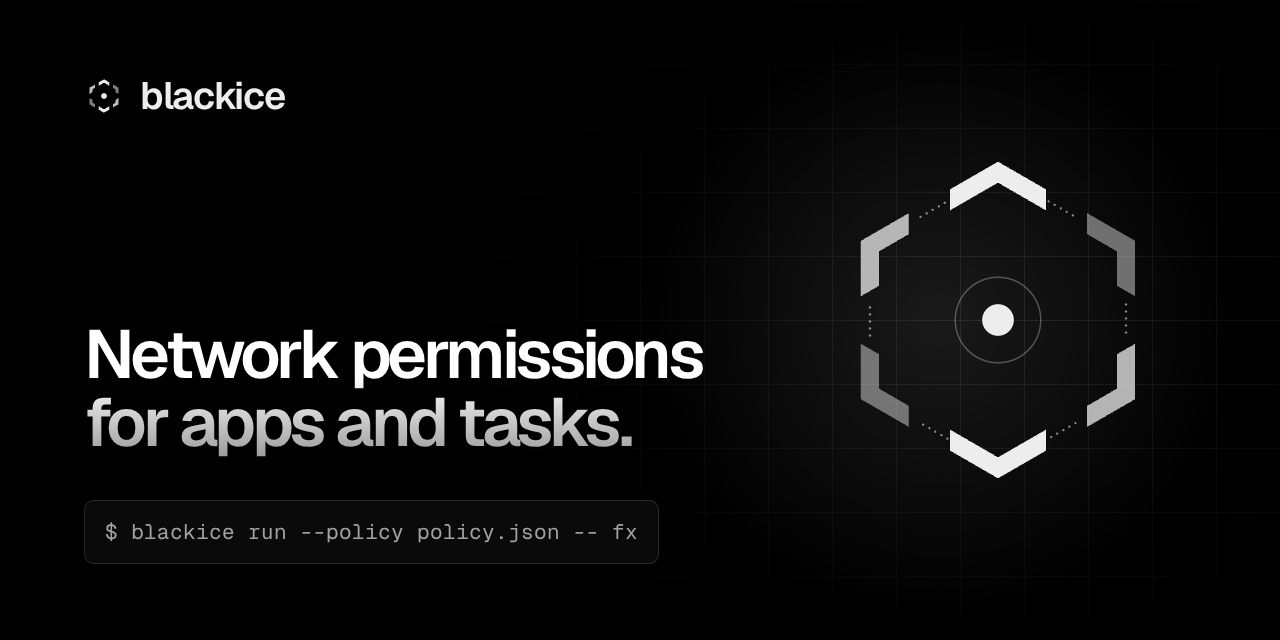
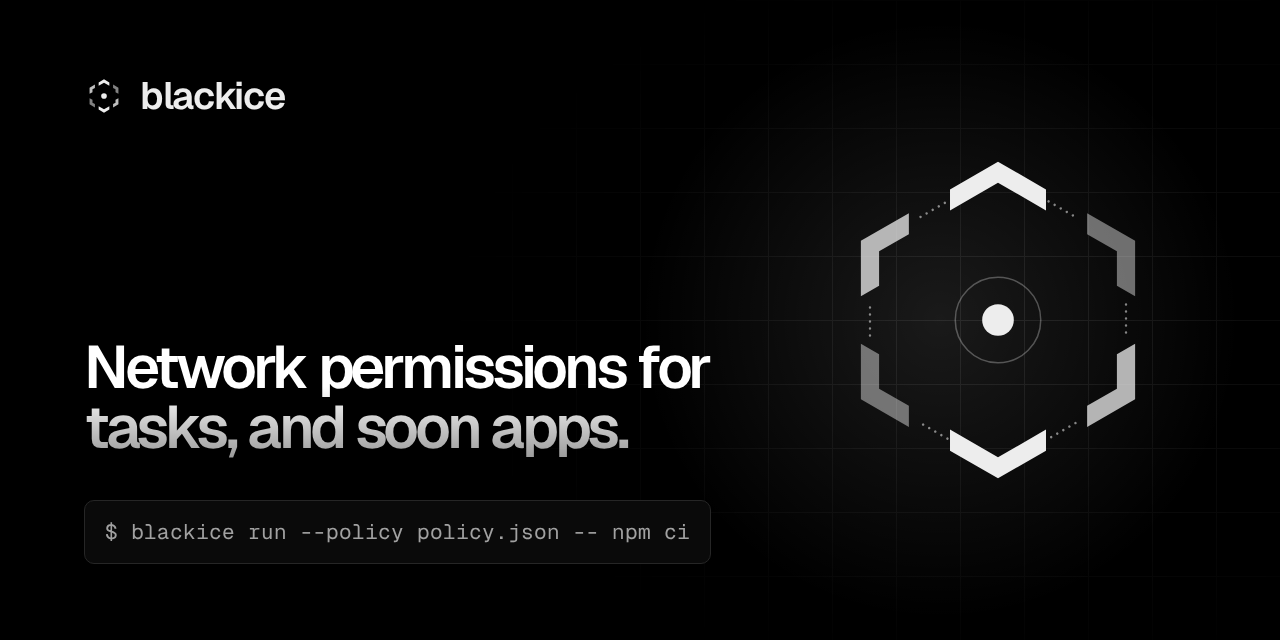
Site: headline says tasks today and apps soon, and the Debian 13 chip (#35)
v0.1.0 filters no apps on any platform, so the headline now reads "Network permissions for tasks, and soon
apps." in the title, the hero, the meta description, og:title and twitter:title (now set explicitly). The
social card is captured again from /og with the new headline at 60px, so it fits two lines; it also picks up
the current command (npm ci). The hero chip names Debian 13 instead of Linux. The README has no
"for apps and tasks" line.

Changed region(s): [[0.0625, 0.5, 0.5625, 0.7188], [0.4688, 0.8125, 0.5312, 0.8438]]

diff --git a/site/app/og/page.jsx b/site/app/og/page.jsx
@@ -29,7 +29,7 @@ export default function OgCard() {
         .og > * { position: relative; z-index: 1; }
         .og-left { display: flex; flex-direction: column; height: 100%; }
         .og-top { display: flex; align-items: center; gap: 16px; font-size: 38px; color: #ededed; }
-        .og-title { margin: auto 0 0; font-size: 68px; line-height: 1; letter-spacing: -0.055em; font-weight: 600;
+        .og-title { margin: auto 0 0; font-size: 60px; line-height: 1; letter-spacing: -0.055em; font-weight: 600;
           background: linear-gradient(180deg, #fff 40%, rgba(255, 255, 255, 0.6)); -webkit-background-clip: text; background-clip: text; color: transparent; padding-bottom: 0.06em; }
         .og-cmd { margin-top: 40px; align-self: flex-start; font-family: var(--mono); font-size: 21px; color: #a1a1a1; padding: 14px 20px;
           border: 1px solid #262626; border-radius: 10px; background: #0a0a0a; }

diff --git a/site/content/site.js b/site/content/site.js
@@ -1,8 +1,8 @@
 export const SITE = {
   name: 'blackice',
-  headline: 'Network permissions for apps and tasks.',
+  headline: 'Network permissions for tasks, and soon apps.',
   description:
-    'blackice decides which hosts a command, and every process it starts, can reach. Native and headless. v0: task scopes work on macOS and Debian 13 (x86_64).',
+    'Network permissions for tasks, and soon apps. blackice decides which hosts a command, and every process it starts, can reach. Native and headless. v0: task scopes work on macOS and Debian 13 (x86_64).',
   repo: 'https://github.com/ValentinTorassa/blackice',
   author: 'Valen Torassa',
   authorUrl: 'https://valentorassa.com',

diff --git a/site/app/page.jsx b/site/app/page.jsx
@@ -110,7 +110,7 @@ export default function Home() {
             </Link>
             <h1>
               Network permissions <br className="br" />
-              for apps and tasks.
+              for tasks, and soon apps.
             </h1>
             <p className="lede">
               blackice decides which hosts a command can reach, along with every process it starts. The rules are in
@@ -138,7 +138,7 @@ export default function Home() {
               </li>
               <li>
                 <IconPenguin size={14} />
-                Linux
+                Debian 13
               </li>
               <li>
                 <IconTerminal size={14} />

diff --git a/site/app/layout.jsx b/site/app/layout.jsx
@@ -8,7 +8,13 @@ export const metadata = {
   title: { default: `${SITE.name}: ${SITE.headline}`, template: `%s · ${SITE.name}` },
   description: SITE.description,
   icons: { icon: '/logo.svg' },
-  openGraph: { title: SITE.name, description: SITE.description, images: ['/og.png'] },
+  openGraph: { title: `${SITE.name}: ${SITE.headline}`, description: SITE.description, images: ['/og.png'] },
+  twitter: {
+    card: 'summary_large_image',
+    title: `${SITE.name}: ${SITE.headline}`,
+    description: SITE.description,
+    images: ['/og.png'],
+  },
 };
 
 export const viewport = { themeColor: '#000000', colorScheme: 'dark' };
